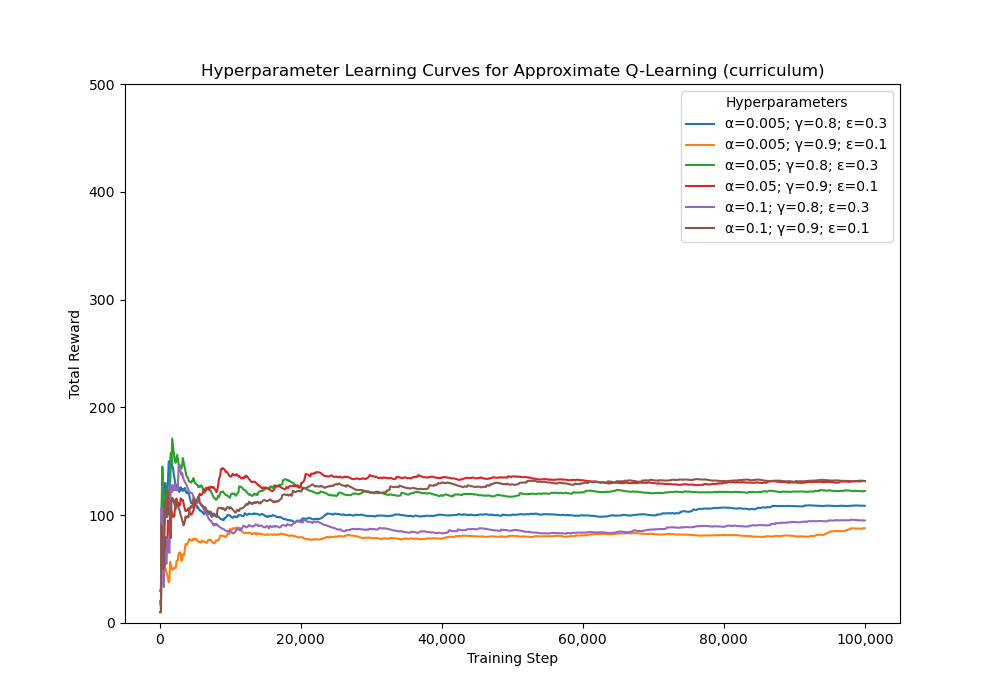
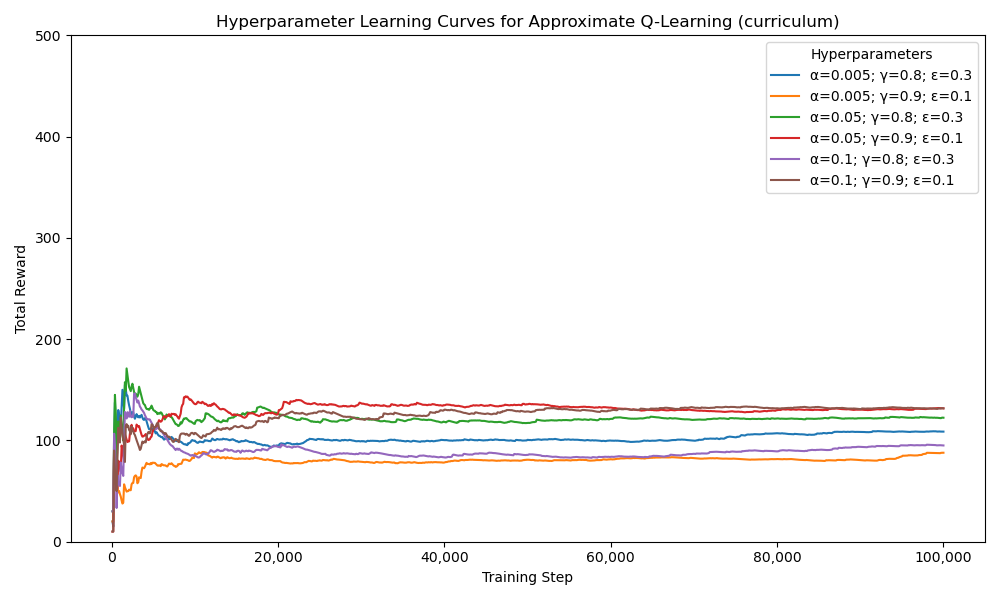
Updated data visualizations

diff --git a/source/6_analyze_results.py b/source/6_analyze_results.py
@@ -31,63 +31,15 @@ results["treatment_name"] = results.apply(lambda row: f"{row['agent_name']}\n({'
 results = results.sort_values(by=["agent_name", "curriculum"])
 
 # NOTE: Cast curriculum to a string, so it can be used to set the hue
-results["curriculum"] = results["curriculum"].astype(int)
+results["curriculum"] = results["curriculum"].astype(str)
 
 
-# Plot percentage of visited states by training step
-plt.figure(figsize=(10, 7))
-ax = sns.lineplot(
-    x="episode",
-    y="percent_states_visited",
-    hue="treatment_name",
-    data=results)
-plt.title("Average Percentage of States Visited per Episode")
-plt.xlabel("Episode")
-plt.ylabel("Percentage of States Visited")
-plt.ylim(0, 100)
-plt.savefig(f"../data/plots/training/percent_states_visited_by_agent.png")
-plt.show()
-
-
-# Plot total the average step runtime across 100 episodes by agent
-# Set the color to blue for the baseline and orange for the curriculum
-plt.figure(figsize=(10, 7))
-ax = sns.barplot(
-    x="treatment_name",
-    y="duration",
-    data=results,
-    capsize=0.1)
-plt.title("Average Step Runtime by Agent")
-plt.xlabel("Agent")
-plt.ylabel("Runtime (seconds)")
-plt.xticks(rotation=15, ha="right")
-plt.subplots_adjust(bottom=0.15)
-# and add a label above each bar and slightly to the right
-for p in plt.gca().patches:
-    plt.gca().annotate(
-        f"{p.get_height():,.3f}",
-        (p.get_x() + p.get_width() / 2 + 0.25, p.get_height()),
-        ha="center",
-        va="center",
-        fontsize=11,
-        color="black",
-        xytext=(0, 10),
-        textcoords="offset points")
-for line in ax.lines:
-    line.set_color("grey")
-    line.set_mfc("grey")
-    line.set_mec("grey")
-plt.tight_layout()
-plt.savefig(f"../data/plots/results/avg_runtime_by_agent.png")
-plt.show()
-
-
-# Plot total the total reward per episode by agent
 # Set the color to blue for the baseline and orange for the curriculum
 blue = sns.color_palette("tab10")[0]
 orange = sns.color_palette("tab10")[1]
+
 # Plot the total reward by agent
-plt.figure(figsize=(10, 7))
+plt.figure(figsize=(10, 6))
 ax = sns.barplot(
     x="treatment_name",
     y="total_reward",
@@ -103,7 +55,6 @@ plt.xticks(rotation=15, ha="right")
 ax.get_yaxis().set_major_formatter(
     matplotlib.ticker.FuncFormatter(lambda x, p: format(int(x), ',')))
 plt.subplots_adjust(bottom=0.15)
-# and add a label above each bar and slightly to the right
 for p in plt.gca().patches:
     plt.gca().annotate(
         f"{p.get_height():,.0f}",
@@ -114,12 +65,64 @@ for p in plt.gca().patches:
         color="black",
         xytext=(0, 10),
         textcoords="offset points")
-# Change the color of the confidence bars to grey
-for line in ax.lines:
-    line.set_color("grey")
-    line.set_mfc("grey")
-    line.set_mec("grey")
-matplotlib.ticker.FuncFormatter(lambda x, p: format(int(x), ','))
 plt.tight_layout()
 plt.savefig(f"../data/plots/results/total_reward_by_agent.png")
+plt.show()
+
+# Plot percentage of visited states by training step
+plt.figure(figsize=(10, 6))
+ax = sns.barplot(
+    x="treatment_name",
+    y="percent_states_visited",
+    palette=[blue, orange],
+    data=results,
+    ci=None)
+for p in plt.gca().patches:
+    plt.gca().annotate(
+        f"{p.get_height():,.0f}",
+        (p.get_x() + p.get_width() / 2, p.get_height()),
+        ha="center",
+        va="center",
+        fontsize=11,
+        color="black",
+        xytext=(0, 10),
+        textcoords="offset points")
+plt.title("Average Percentage of States Visited per Episode")
+plt.xlabel("Episode")
+plt.xticks(rotation=20, ha="right")
+plt.ylabel("States Visited (%)")
+plt.ylim(0, 100)
+plt.tight_layout()
+plt.savefig(f"../data/plots/results/percent_states_visited_by_agent.png")
+plt.show()
+
+
+# Convert duration to milliseconds
+results["duration"] = results["duration"] * 1000
+
+# Plot average episode runtime
+plt.figure(figsize=(10, 6))
+ax = sns.barplot(
+    x="treatment_name",
+    y="duration",
+    data=results,
+    palette=[blue, orange],
+    ci=None)
+plt.title("Average Step Runtime by Agent")
+plt.xlabel("Agent")
+plt.ylabel("Runtime (ms)")
+plt.xticks(rotation=20, ha="right")
+plt.subplots_adjust(bottom=0.15)
+for p in plt.gca().patches:
+    plt.gca().annotate(
+        f"{p.get_height():,.2f}",
+        (p.get_x() + p.get_width() / 2, p.get_height()),
+        ha="center",
+        va="center",
+        fontsize=11,
+        color="black",
+        xytext=(0, 10),
+        textcoords="offset points")
+plt.tight_layout()
+plt.savefig(f"../data/plots/results/avg_runtime_by_agent.png")
 plt.show()

diff --git a/source/2b_analyze_features.py b/source/2b_analyze_features.py
@@ -44,7 +44,7 @@ for treatment in treatments:
     # Plot total reward by training step grouped by hyperparameter treatment
     plot_file_name = f"{file_name.split('.')[0]}.png"
     plot_title = f"Feature Learning Curves for {treatment_name}"
-    plt.figure(figsize=(10, 7))
+    plt.figure(figsize=(10, 6))
     ax = sns.lineplot(
         x="training_step",
         y="rolling_total_reward",
@@ -55,7 +55,8 @@ for treatment in treatments:
     ax.get_xaxis().set_major_formatter(
         matplotlib.ticker.FuncFormatter(lambda x, p: format(int(x), ',')))
     plt.ylabel("Total Reward")
-    plt.ylim(0, 500)
+    plt.ylim(0, 100)
     plt.legend(title="Hyperparameters")
+    plt.tight_layout()
     plt.savefig(f"../data/plots/features/{plot_file_name}")
     plt.show()

diff --git a/source/2a_analyze_hyperparameters.py b/source/2a_analyze_hyperparameters.py
@@ -50,7 +50,7 @@ for treatment in treatments:
     # Plot total reward by training step grouped by hyperparameter treatment
     plot_file_name = f"{file_name.split('.')[0]}.png"
     plot_title = f"Hyperparameter Learning Curves for {treatment_name}"
-    plt.figure(figsize=(10, 7))
+    plt.figure(figsize=(10, 6))
     ax = sns.lineplot(
         x="training_step",
         y="rolling_total_reward",
@@ -63,5 +63,6 @@ for treatment in treatments:
     plt.ylabel("Total Reward")
     plt.ylim(0, 500)
     plt.legend(title="Hyperparameters")
+    plt.tight_layout()
     plt.savefig(f"../data/plots/hyperparameters/{plot_file_name}")
     plt.show()

diff --git a/source/4_analyze_learning.py b/source/4_analyze_learning.py
@@ -38,8 +38,8 @@ smoothed_details.reset_index(drop=True, inplace=True)
 
 details = details.sort_values(by=["agent_name", "curriculum"])
 
-# # Plot total reward by training step
-plt.figure(figsize=(10, 7))
+# Plot total reward by training step
+plt.figure(figsize=(10, 6))
 ax = sns.lineplot(
     x="training_step",
     y="rolling_total_reward",
@@ -56,5 +56,6 @@ plt.ylabel("Total Reward")
 plt.ylim(0, 1_250)
 ax.get_yaxis().set_major_formatter(
     matplotlib.ticker.FuncFormatter(lambda x, p: format(int(x), ',')))
+plt.tight_layout()
 plt.savefig(f"../data/plots/training/learning_curves.png")
 plt.show()
